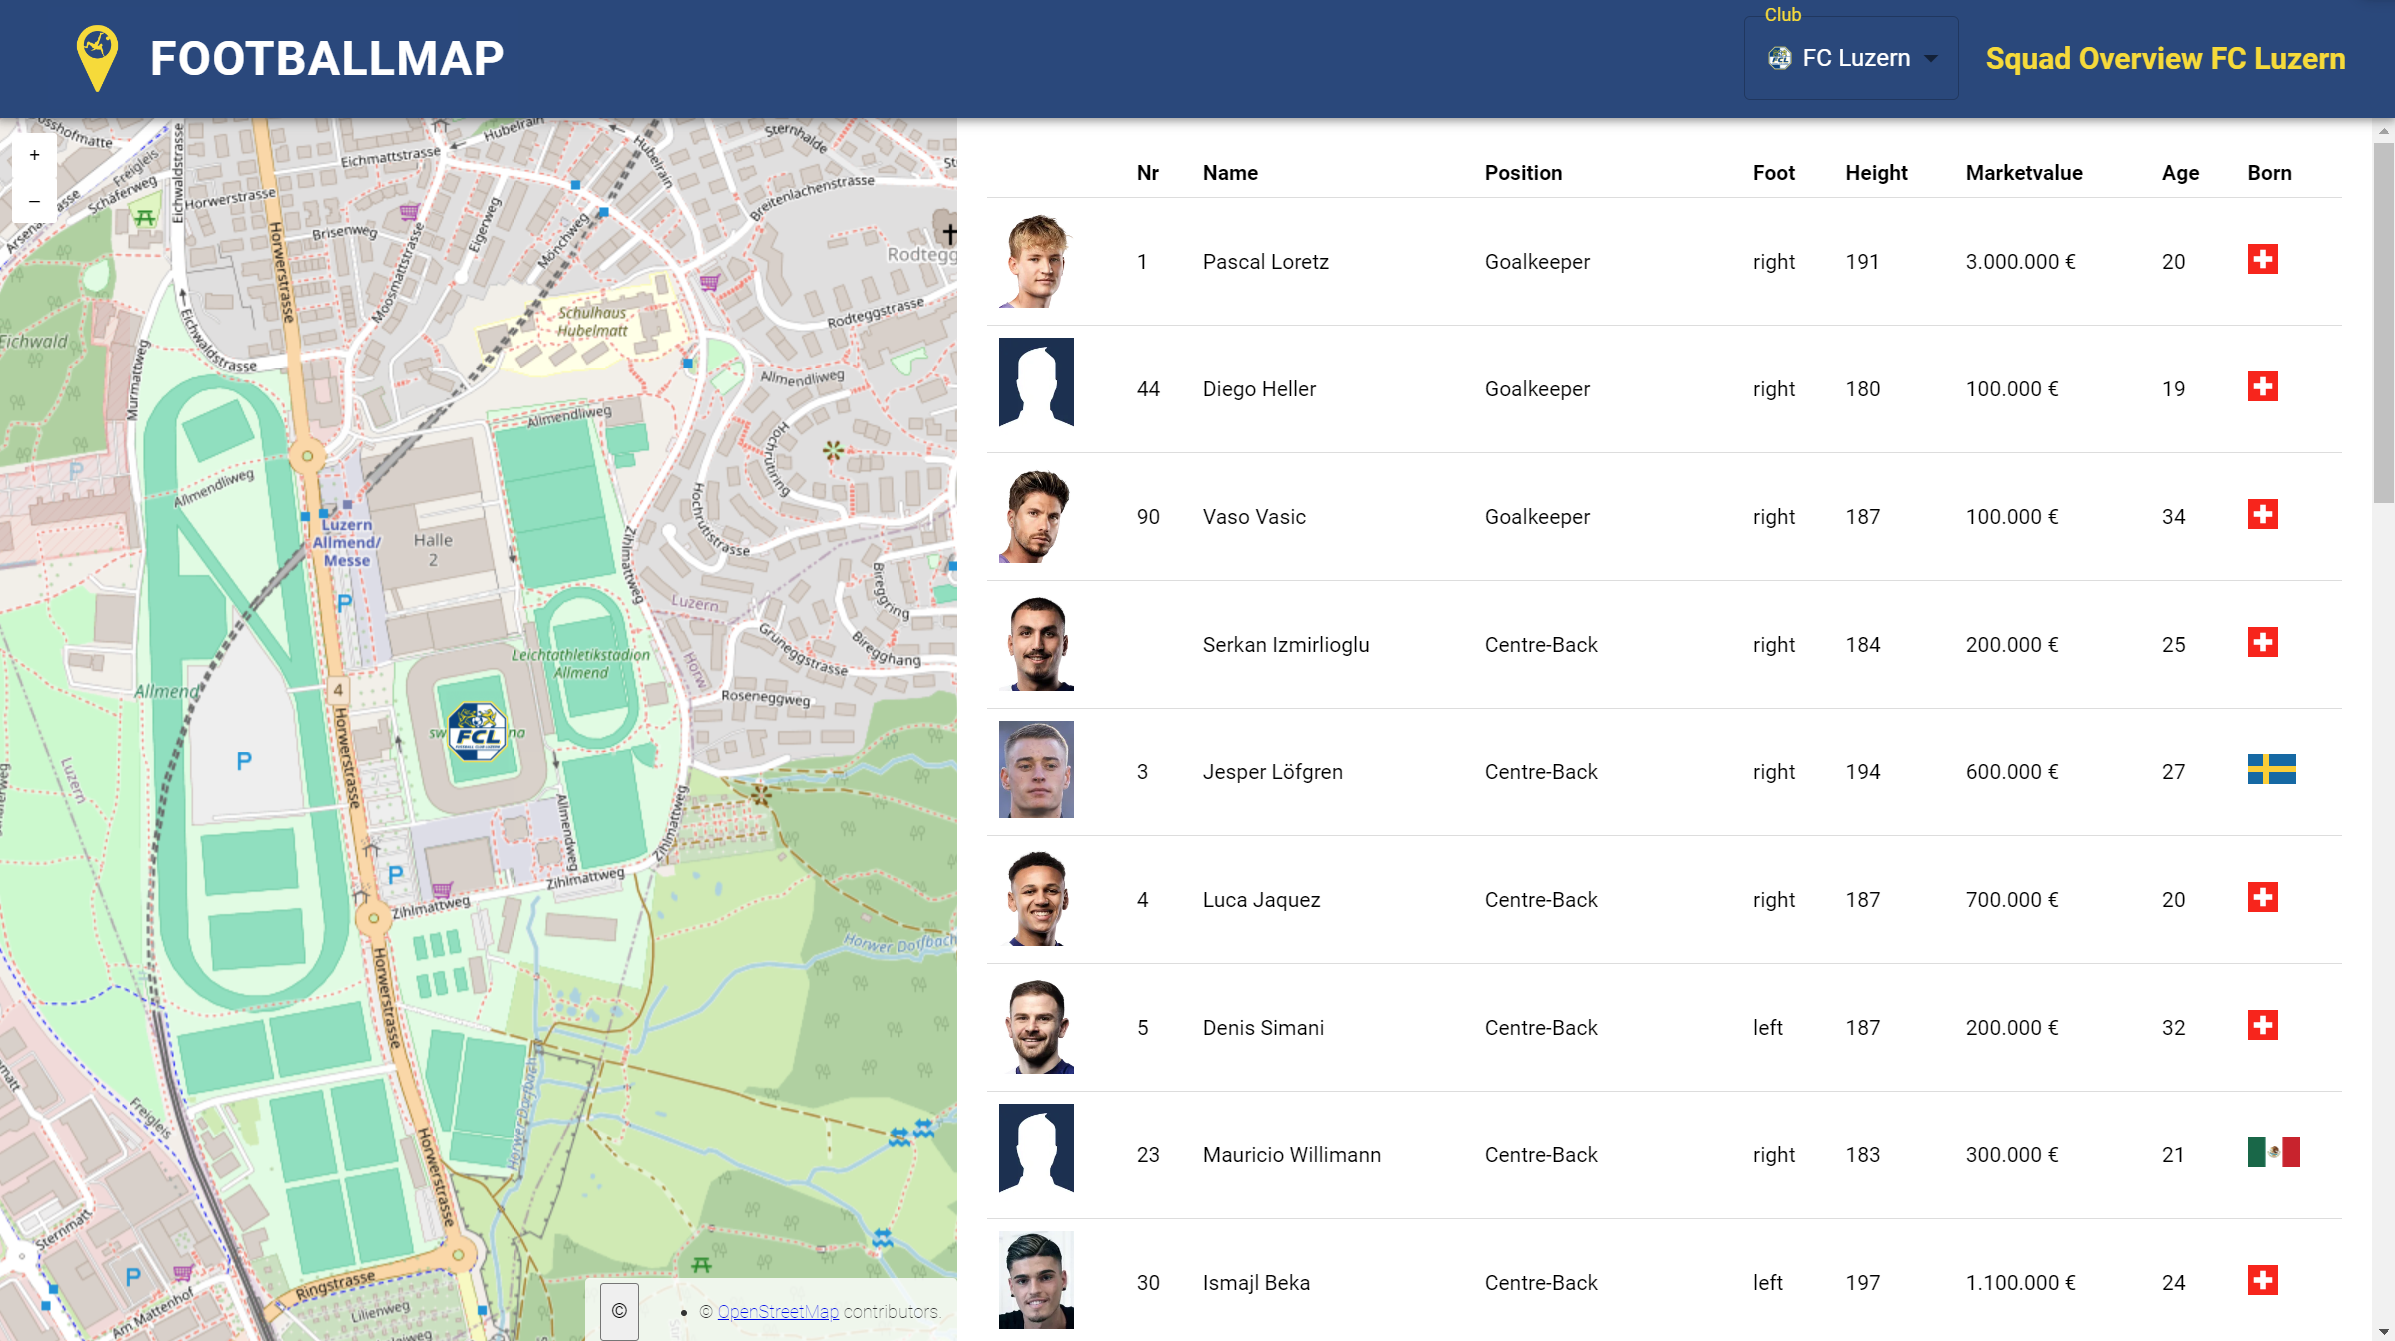
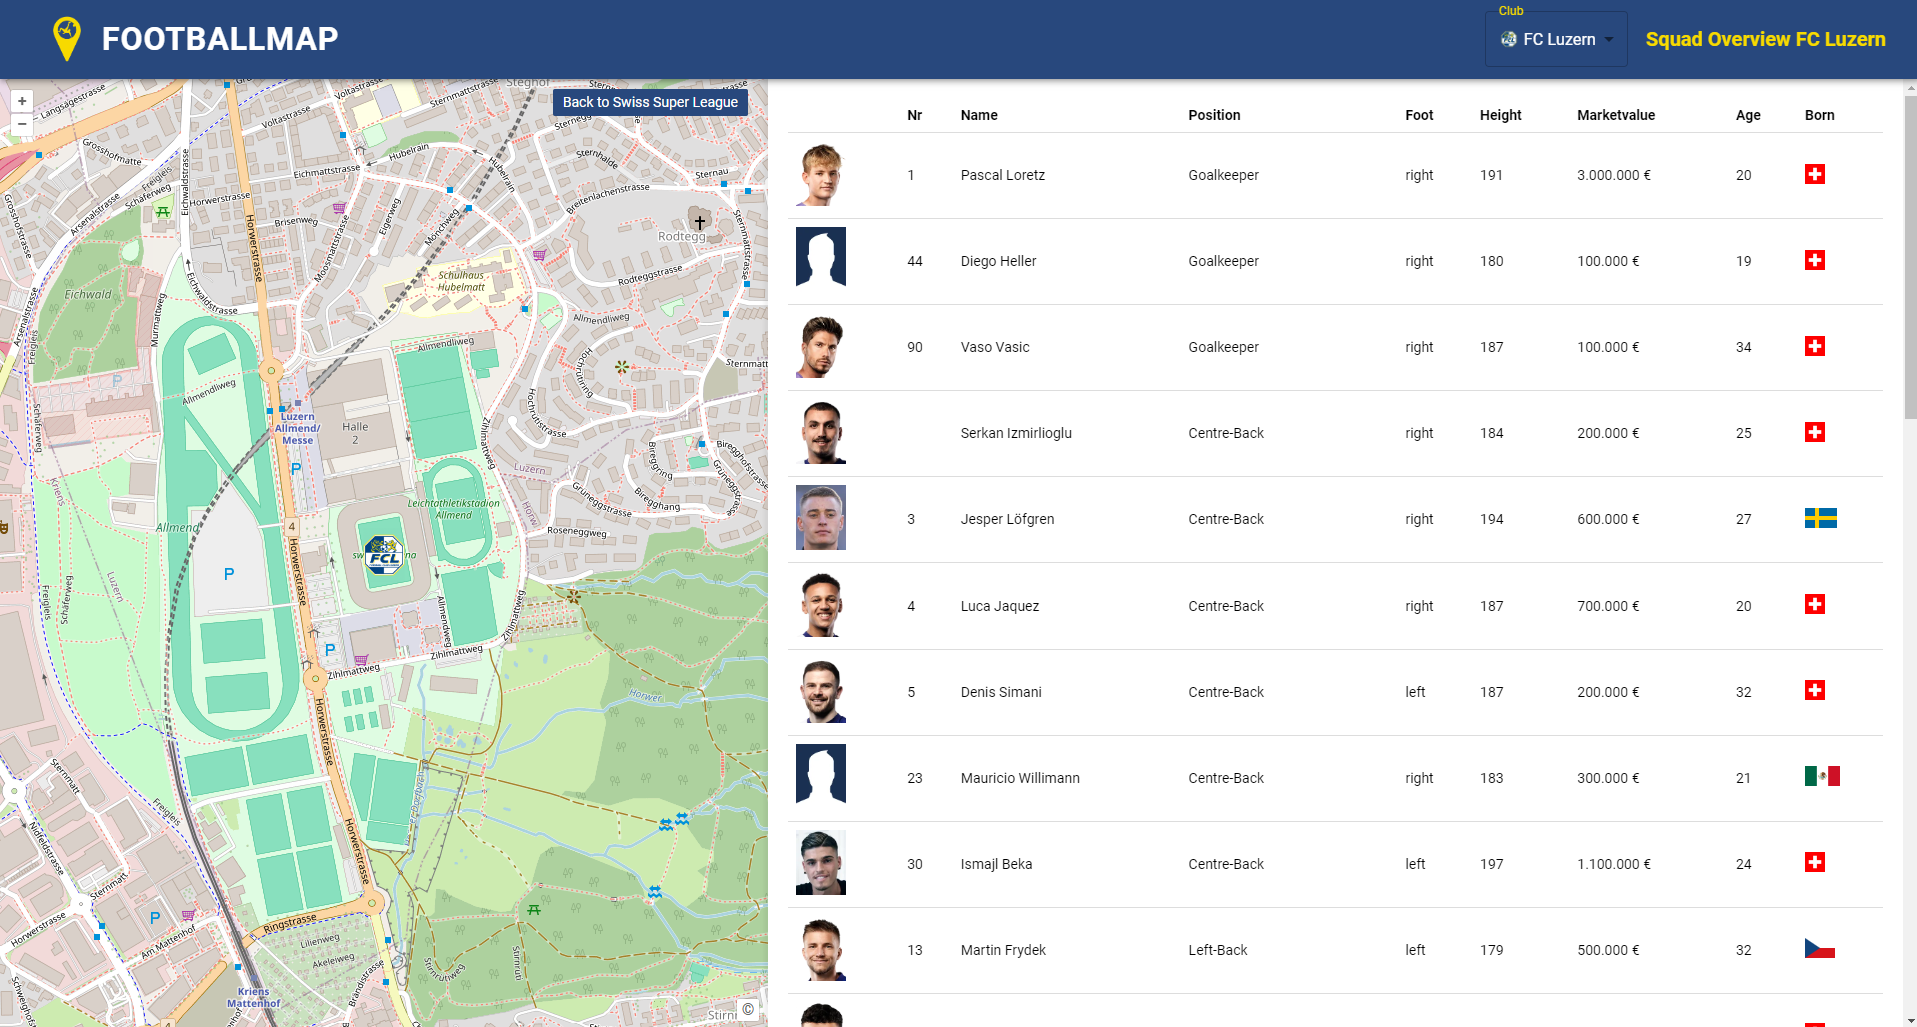
20240512_1_Nando
Neue Bilder für GitHub Pages

diff --git a/client/src/transferhistory.css b/client/src/transferhistory.css
@@ -23,7 +23,7 @@
   cursor: pointer;
   border-radius: 2px;
   font-size: 14px;
-  font-family: 'Roboto', sans-serif;
+  font-family: "Roboto", sans-serif;
   z-index: 1000;
 }
 
@@ -35,7 +35,7 @@
 /* CSS für die Tabelle */
 .transferhistory_table {
   position: absolute;
-  top: 80px; /* Höhe der AppBar*/
+  top: 40px;
   right: 0;
   width: 45%;
   height: calc(100% - 80px);
